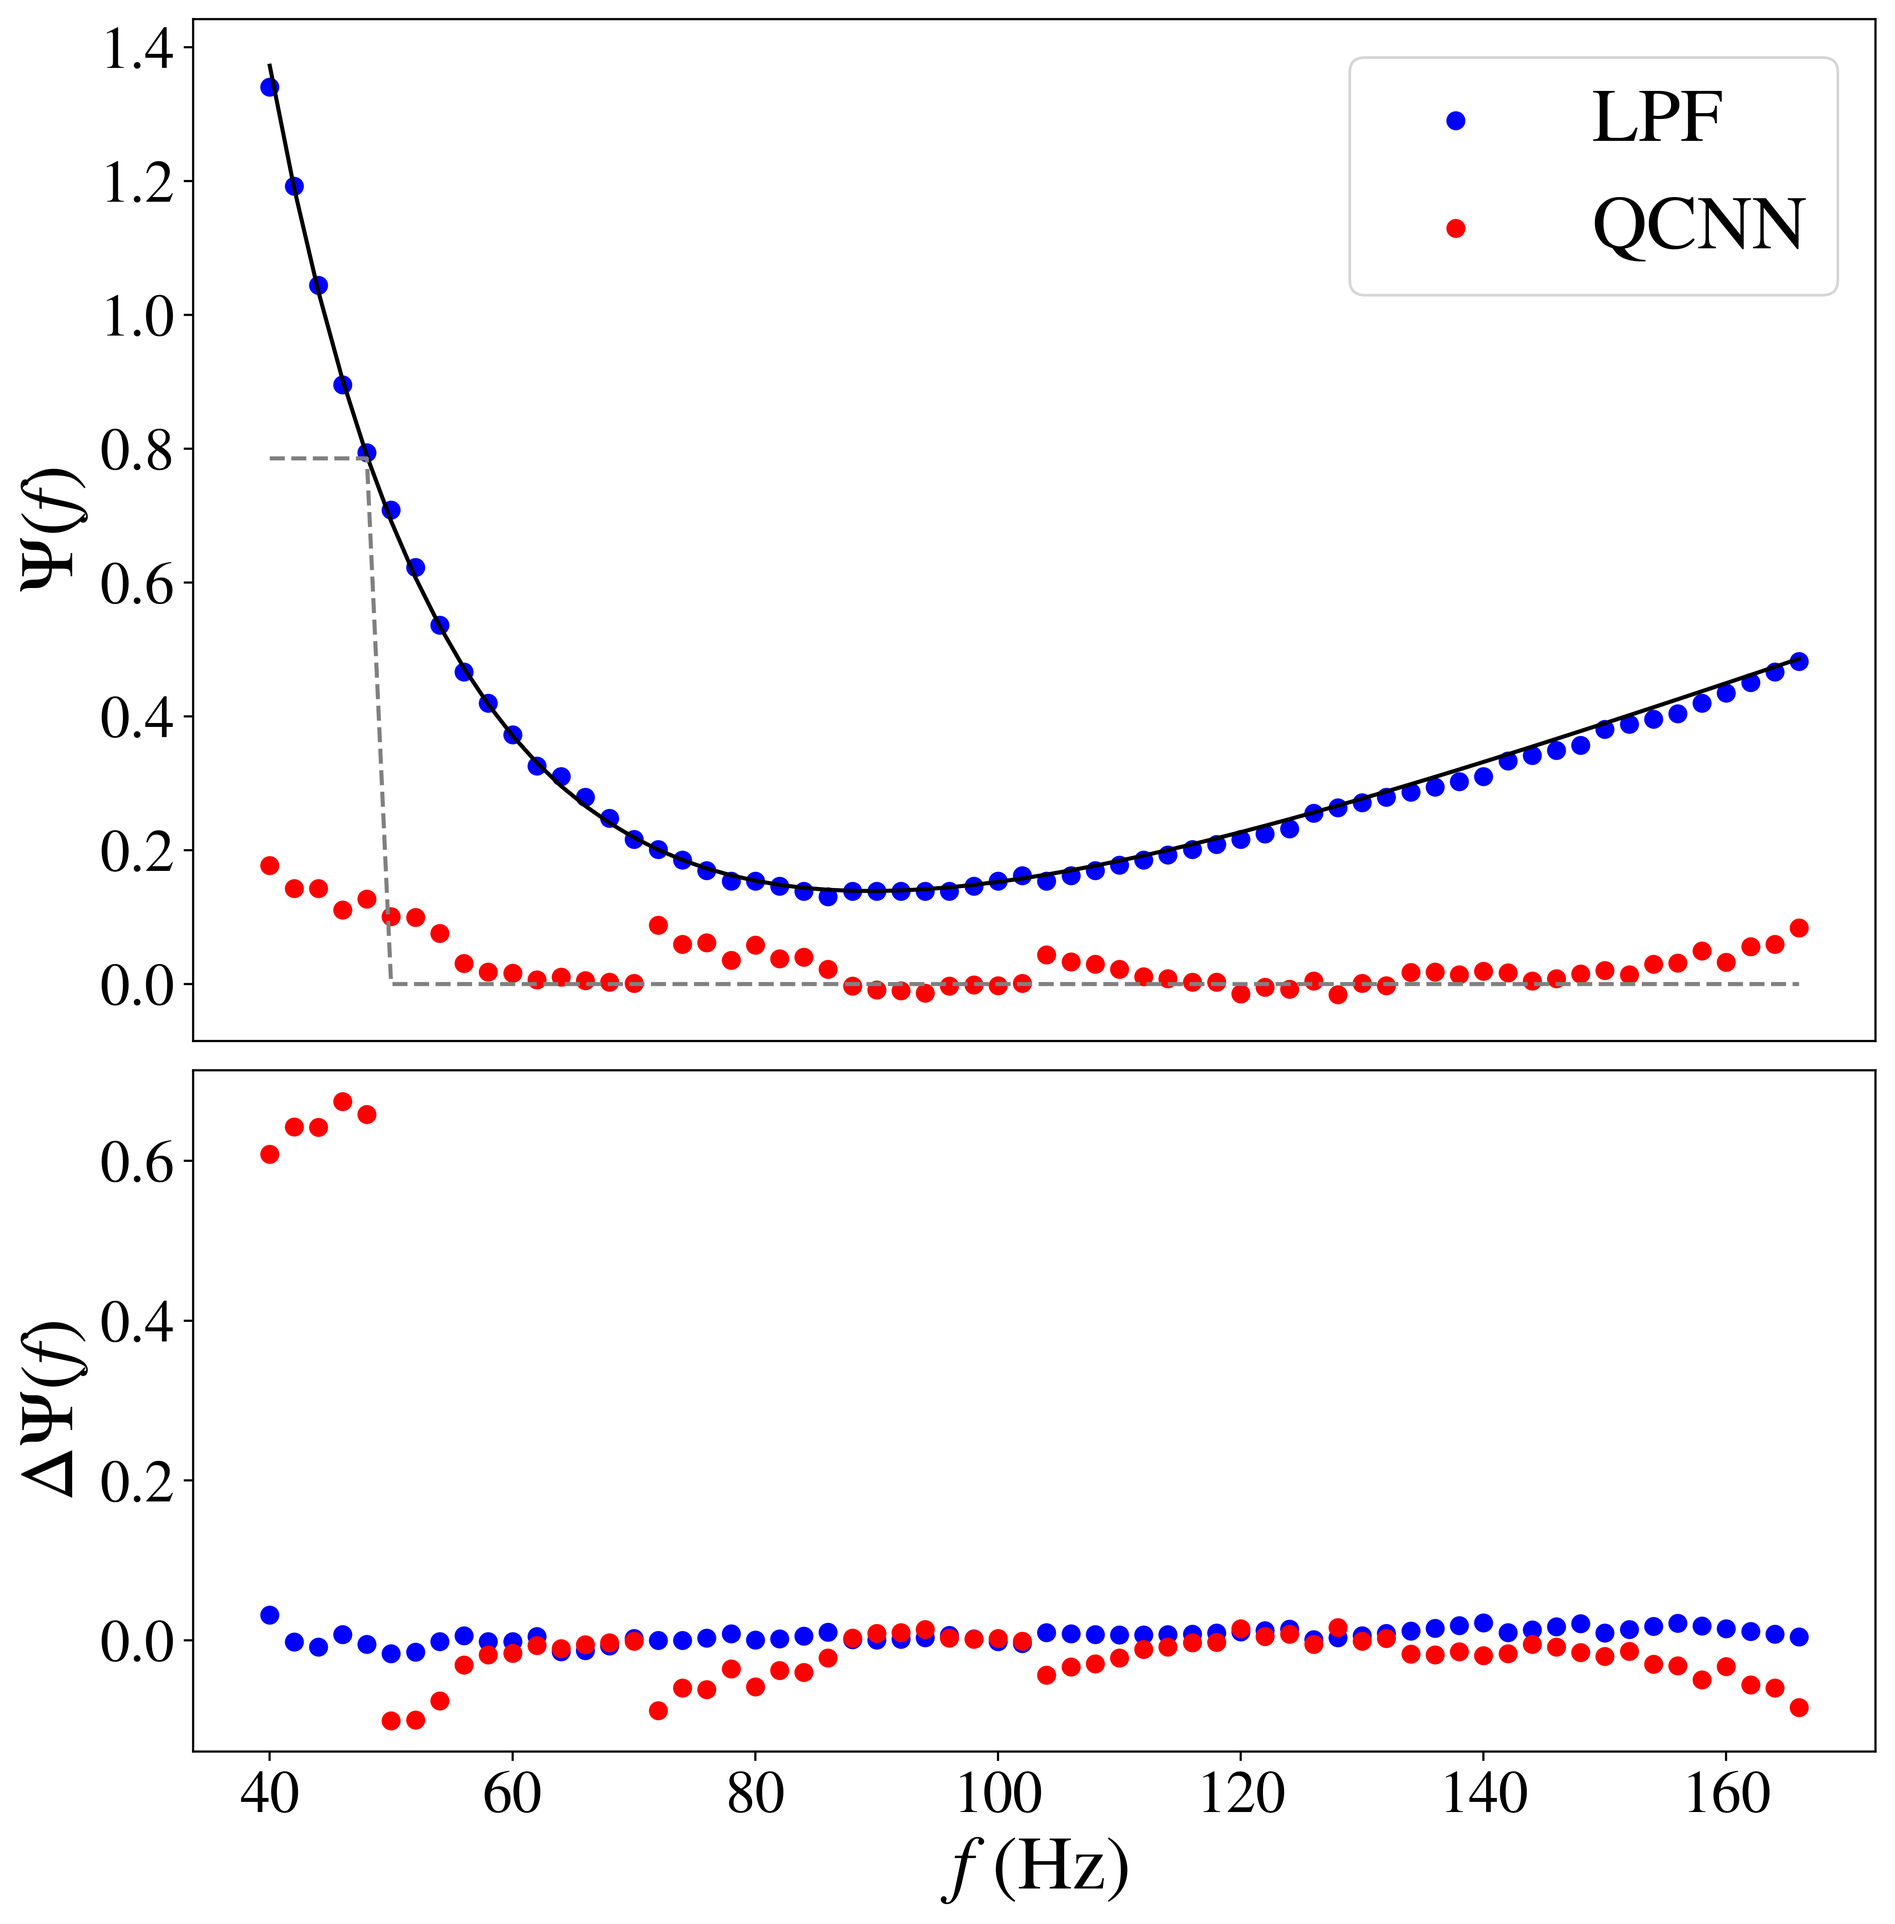
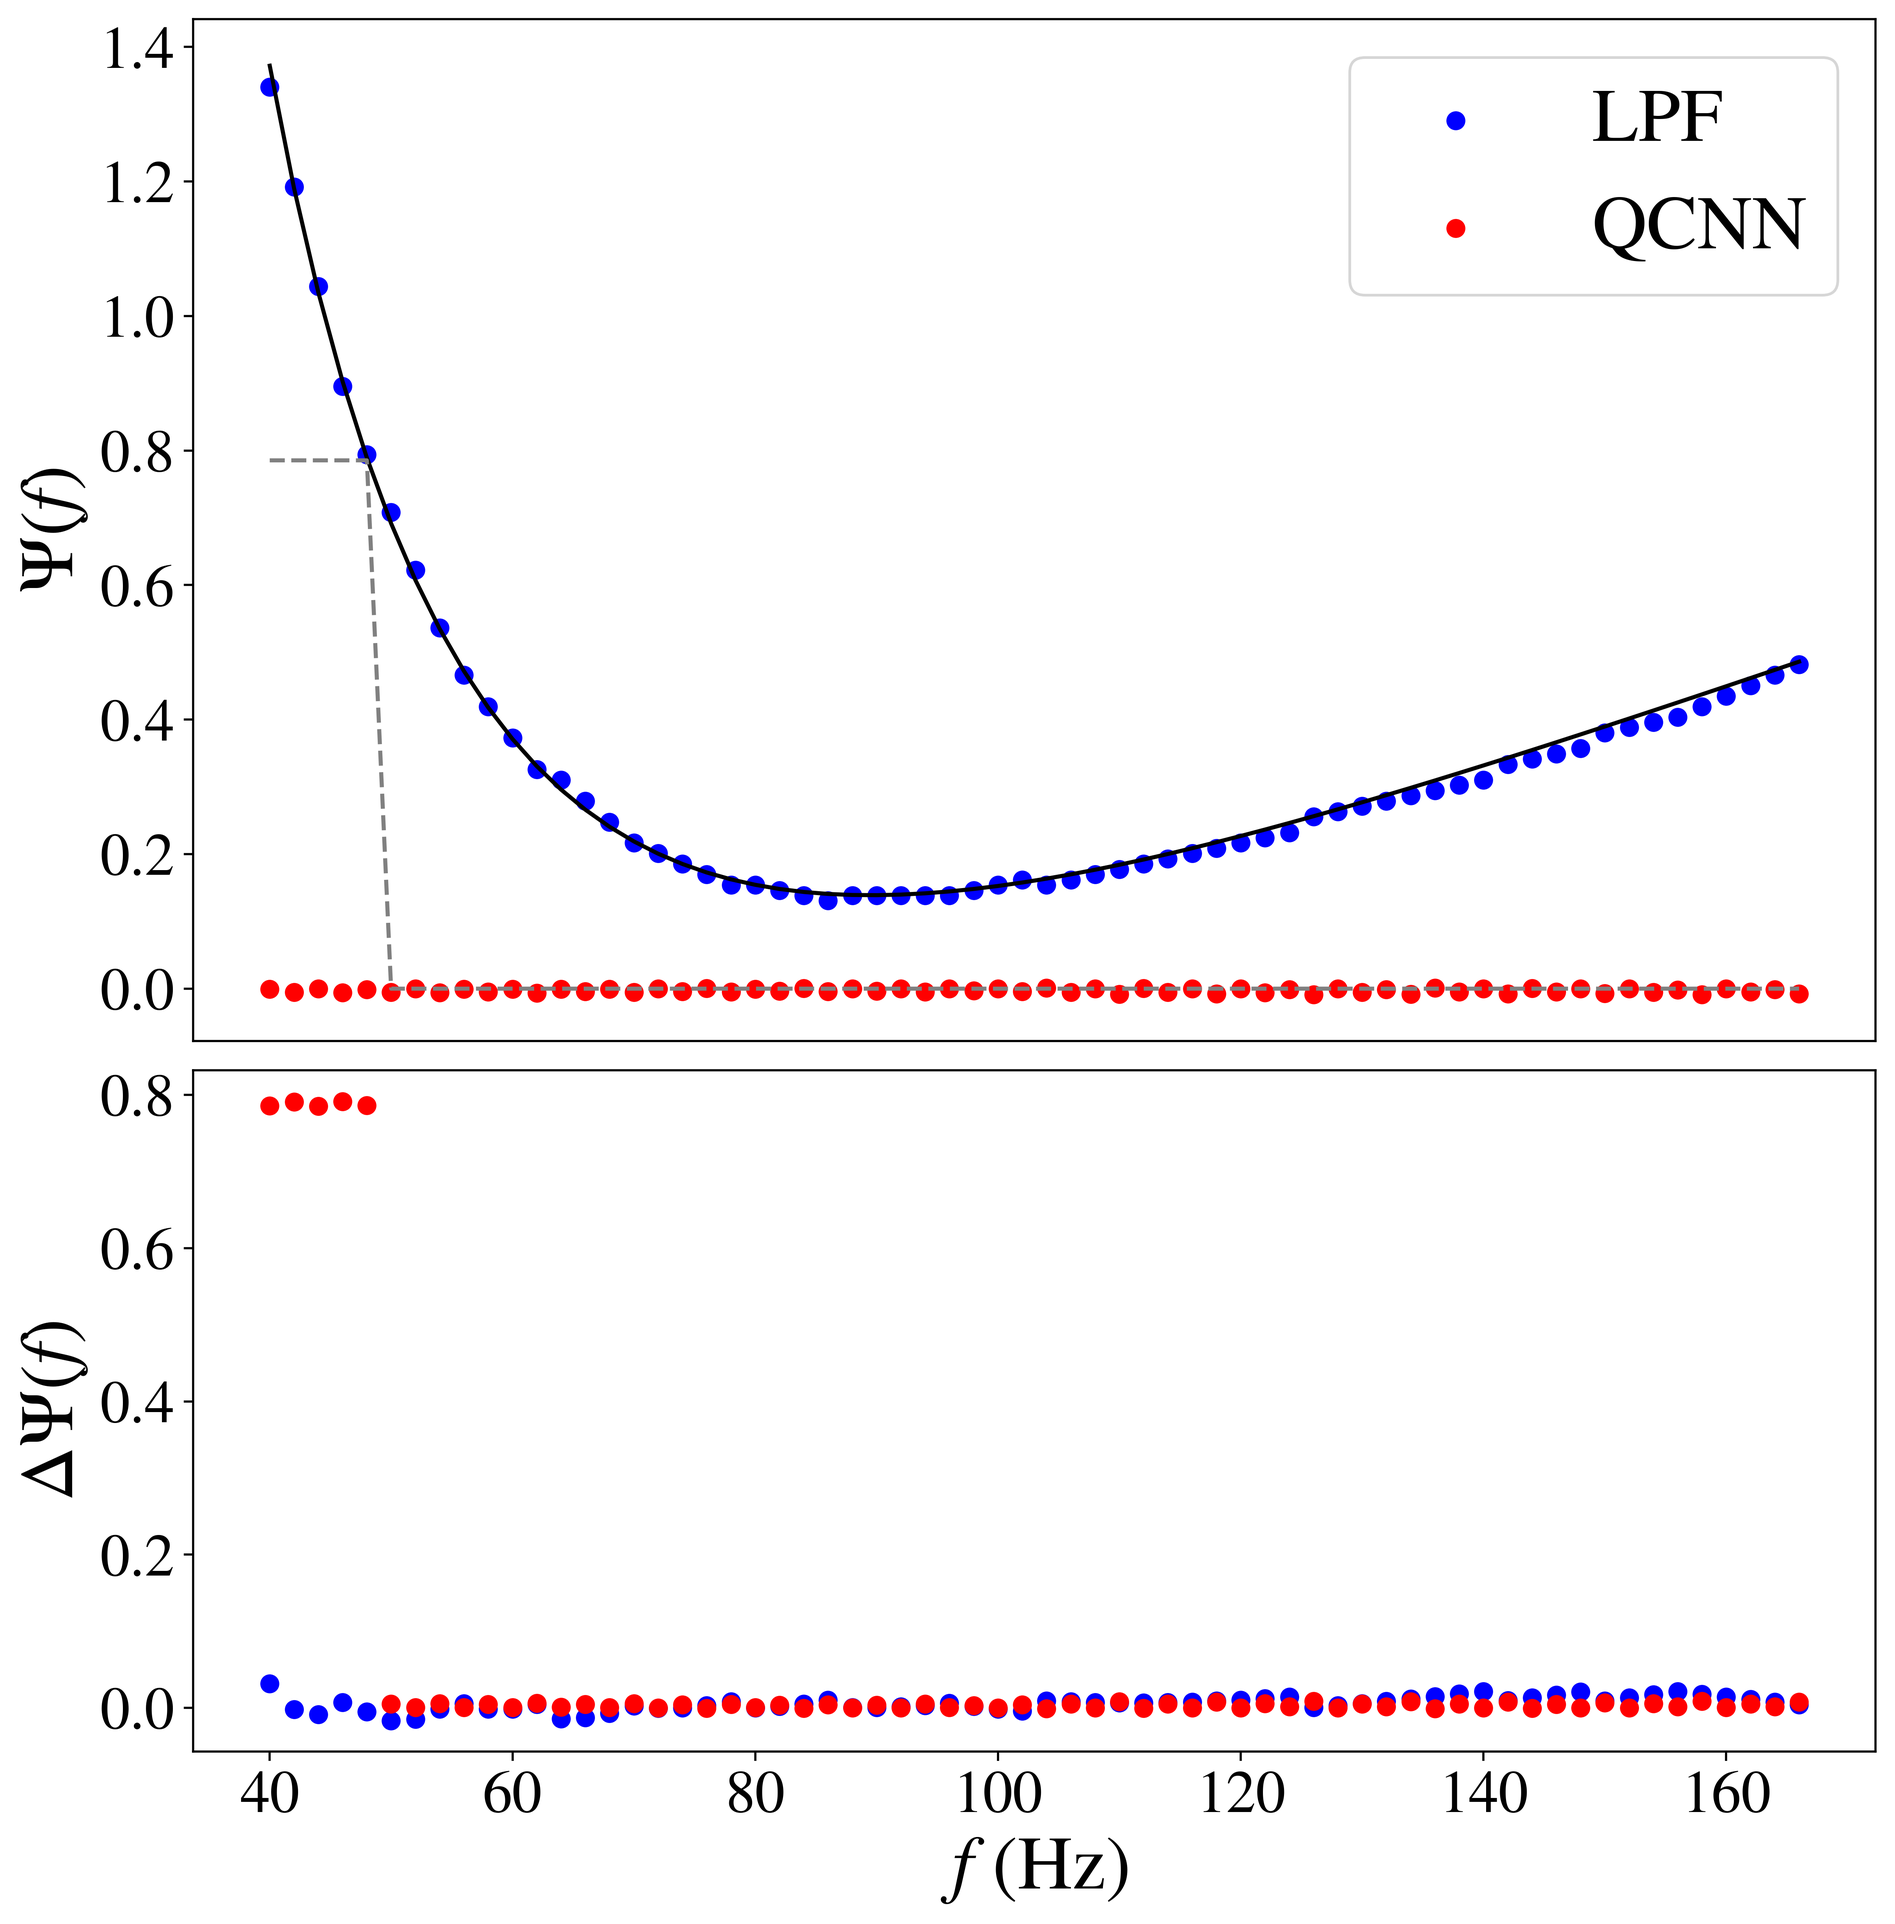
removed WIM switch

diff --git a/docs/weeks_1-3.tex b/docs/weeks_1-3.tex
@@ -253,7 +253,7 @@ $n=m=2$, $\Psi(x)=x$) do not extrapolate well to more general cases
 \mathsf{WIM}(x,y) =  \left\vert 1 - \sum_j w_j x_j y_j \right \vert, 
 \end{equation}
 where the weights $w_j \in \mathbb{R}_{+}$ may be recomputed between epochs
-\item When training in superposition take $w_j$ to be the (normalised, smoothed) mismatch between $\hat{Q}_\Psi \ket{j} \ket{0}$ and $\ket{j}\ket{\Psi'(j)}$
+\item Take $w_j$ to be the (normalised, smoothed) mismatch between $\hat{Q}_\Psi \ket{j} \ket{0}$ and $\ket{j}\ket{\Psi'(j)}$
 \end{itemize}
 \end{frame}
 
@@ -262,10 +262,9 @@ where the weights $w_j \in \mathbb{R}_{+}$ may be recomputed between epochs
 \begin{columns}
 \begin{column}{0.5\textwidth}
 \begin{itemize}
-\item TAU1=0.8 SEEMS GOOD!
-\item play around with tau2 and tau3 : seem to make no difference 
-\item investigate if higher epoch makes difference [seems to!]: -e 1000 and -L 9??!!
-\item think about turning on and off (i.e. setting and re-setting weights?)
+\item With some tinkering, WIM slightly ...
+\item 
+\item investigate if higher epoch makes difference: -e 1000 and -L 9 makes it worse; -e 1500 makes it slightly better?
 \end{itemize}
 \end{column}
 \begin{column}{0.5\textwidth}

diff --git a/tools.py b/tools.py
@@ -647,7 +647,7 @@ def train_QNN(n,m,L, seed, shots, lr, b1, b2, epochs, func,func_str,loss_str,met
         mismatch_vals[i]=mismatch
 
         # set loss func weights
-        if loss_str=="WIM" and (i % tau_2 ==0) and (i >=tau_3) and ((i // tau_3) % 2==1):
+        if loss_str=="WIM" and (i % tau_2 ==0) and (i >=tau_3):
             
             # initialise arrays to store results 
             temp_mismatch = np.empty(2**n)
@@ -691,10 +691,6 @@ def train_QNN(n,m,L, seed, shots, lr, b1, b2, epochs, func,func_str,loss_str,met
                     WIM_weights_arr[ind]= temp_mismatch[q]
 
             WIM_weights_arr=np.exp(tau_1 * WIM_weights_arr)    
-
-        elif loss_str=="WIM" and (i % tau_2 ==0) and (i >=tau_3) and ((i // tau_3) % 2 == 0):
-             WIM_weights_arr=np.ones(2**(n+m))
-
 
         # temporarily save outputs every hundred iterations
         temp_ind = epochs - 100 

diff --git a/full_encode.py b/full_encode.py
@@ -7,7 +7,7 @@ from tools import psi, bin_to_dec, dec_to_bin, full_encode
 L_phase = 6
 real_p = True 
 m = 3
-weights_phase = "outputs/weights_6_3(0)_6_600_psi_WIM_(S)(PR)(r).npy"
+weights_phase = "outputs/weights_6_3(0)_6_600_psi_MM_(S)(PR)(r).npy"
 
 n = 6
 weights_ampl = "ampl_outputs/weights_6_3_600_x76_MM_40_168_.npy" 
